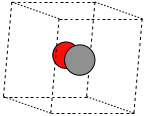
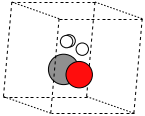
Made selection, crossover and mutation functions. Tested different methods.

Changed region(s): [[0.331, 0.2845, 0.6621, 0.7759]]

diff --git a/Geopt/Tests/EAs.py b/Geopt/Tests/EAs.py
@@ -8,7 +8,7 @@ def StartEA(elementsList):
     changeSizes = [10, 50, 150]  # Ranges of random atom movements.
 
     # Set up and initialise our template molecule to start with.
-    boxSize, coordinates, atomObjectList = Molecules.SetUpMolecule(elementsList)
+    boxSize, firstCoordinates, atomObjectList = Molecules.SetUpMolecule(elementsList)
     parentMolecule = Atoms(atomObjectList, cell=boxSize)
     parentMolecule.center()
     parentEnergy = GetEnergy(parentMolecule)
@@ -21,34 +21,53 @@ def StartEA(elementsList):
     bestMolecule = parentMolecule
 
     # Create 3 permutations from this initial parent.
-    population = [[parentMolecule, coordinates, parentEnergy]]
+    population = [[parentMolecule, firstCoordinates, parentEnergy]]
     for i in range(3):
-        permutedCoordinates = random.permutation(coordinates)
+        permutedCoordinates = random.permutation(firstCoordinates)
         childCoordinates, childAtomsObject = PrepareChild(elementsList, permutedCoordinates)
-        #MoveAllAtoms(childAtomsObject, changeSizes[2])
         childMolecule = GenerateChild(childAtomsObject, boxSize)
         childEnergy = GetEnergy(childMolecule)
-        print("Energy:", childEnergy)
-        if childEnergy < bestEnergy:
-            bestEnergy = childEnergy
-            bestMolecule = childMolecule
         population.append([childMolecule, childCoordinates, childEnergy])
 
-    population = RankByE(population)
+    # Sort the molecules into order of lowest energy and keep the two best ones.
+    population = RankByE(population, 2)
+    write("C:/Users/pipin/Documents/fyp/SophieCOMP3000/Geopt/Images/dad.png", population[1][0],
+          rotation='10x,30y,0z')
 
-    # write("C:/Users/pipin/Documents/fyp/SophieCOMP3000/Geopt/Images/parent.png", parentMolecule,
-    #      rotation='10x,30y,0z')
-    # write("C:/Users/pipin/Documents/fyp/SophieCOMP3000/Geopt/Images/child1.png", childrenList[0][0],
-    #      rotation='10x,30y,0z')
-    # write("C:/Users/pipin/Documents/fyp/SophieCOMP3000/Geopt/Images/child2.png", childrenList[1][0],
-    #       rotation='10x,30y,0z')
-    # write("C:/Users/pipin/Documents/fyp/SophieCOMP3000/Geopt/Images/child3.png", childrenList[2][0],
-    #       rotation='10x,30y,0z')
+    # Make 2 child molecules from these parents
+    for i in range(2):
+        # Do a random crossover and a small random mutation
+        childCoordinates = Crossover(population)
+        childCoordinates, childAtomsObject = PrepareChild(elementsList, childCoordinates)
+        MoveAllAtoms(childAtomsObject, changeSizes[0])
+        childMolecule = GenerateChild(childAtomsObject, boxSize)
+        childEnergy = GetEnergy(childMolecule)
+        population.append([childMolecule, childCoordinates, childEnergy])
+
+    # Get rid of the dad and introduce a random stranger
+    population.pop(1)
+    permutedCoordinates = random.permutation(firstCoordinates)
+    randCoordinates, randAtomsObject = PrepareChild(elementsList, permutedCoordinates)
+    MoveAllAtoms(randAtomsObject, changeSizes[2])
+    randMolecule = GenerateChild(randAtomsObject, boxSize)
+    randEnergy = GetEnergy(randMolecule)
+    population.append([randMolecule, randCoordinates, randEnergy])
 
 
-def PrepareChild(elementsList, parentCoordinates):
+    write("C:/Users/pipin/Documents/fyp/SophieCOMP3000/Geopt/Images/mum.png", population[0][0],
+         rotation='10x,30y,0z')
+    write("C:/Users/pipin/Documents/fyp/SophieCOMP3000/Geopt/Images/child1.png", population[1][0],
+         rotation='10x,30y,0z')
+    write("C:/Users/pipin/Documents/fyp/SophieCOMP3000/Geopt/Images/child2.png", population[2][0],
+          rotation='10x,30y,0z')
+    write("C:/Users/pipin/Documents/fyp/SophieCOMP3000/Geopt/Images/random.png", population[3][0],
+          rotation='10x,30y,0z')
+
+
+def PrepareChild(elementsList, startCoordinates):
     childAtomsObject = []
-    childCoordinates = parentCoordinates[:]
+    # Need to copy the parent's co-ordinates so we don't alter the parent molecule at the same time.
+    childCoordinates = startCoordinates[:]
     for i in range(len(elementsList)):
         childAtomsObject.append(Atom(elementsList[i], childCoordinates[i]))
     return childCoordinates, childAtomsObject
@@ -73,12 +92,10 @@ def MoveAllAtoms(itsAtoms, changeSize):
         eachAtom.position += ((random.randint(-changeSize, changeSize, 3)) / 100)
 
 
-def RankByE(population):
-    # I originally planned to use a quicksort but decided that since the list is small there was no need to make it complicated.
-    full = len(population)
+def RankByE(population, numToKeep):
+    # I originally planned to use a quicksort but decided that since the list was small there was no need to make it complicated.
     rankedPopulation = []
-    print("original population: ", population)
-    while len(rankedPopulation) < full:
+    while len(rankedPopulation) < numToKeep:
         bestEnergy = 1000
         for eachMember in population:
             if eachMember[2] < bestEnergy:
@@ -86,8 +103,24 @@ def RankByE(population):
                 bestMolecule = eachMember
         rankedPopulation.append(bestMolecule)
         population.remove(bestMolecule)
-    print("ranked population: ", rankedPopulation)
     return rankedPopulation
+
+
+def Crossover(population):
+    mumCoordinates = population[0][1]
+    howMany = len(mumCoordinates)
+    mumOrDad = random.randint(0, 2, howMany)
+    childCoordinates = []
+    for i in range(howMany):
+        whichParent = mumOrDad[i]
+        thisPoint = population[whichParent][1][i]
+        childCoordinates.append(thisPoint)
+    return childCoordinates
+
+
+
+
+
 
 
 testList = ['C', 'O', 'H', 'H', 'H']

diff --git a/Geopt/Model/EAs.py b/Geopt/Model/EAs.py
@@ -60,16 +60,17 @@ def MoveAllAtoms(itsAtoms, changeSize):
         eachAtom.position += ((random.randint(-changeSize, changeSize, 3)) / 100)
 
 
-def RankByE(population):
-    full = len(population)
+def RankByE(population, numToKeep):
+    # I originally planned to use a quicksort but decided that since the list is small there was no need to make it complicated.
     rankedPopulation = []
-    while len(rankedPopulation) < full:
-        worstEnergy = -1
+    print("original population: ", population)
+    while len(rankedPopulation) < numToKeep:
+        bestEnergy = 1000
         for eachMember in population:
-            if eachMember[2] > worstEnergy:
-                worstEnergy = eachMember[2]
-                worstMolecule = eachMember
-        rankedPopulation.append(worstMolecule)
-        population.remove(worstMolecule)
+            if eachMember[2] < bestEnergy:
+                bestEnergy = eachMember[2]
+                bestMolecule = eachMember
+        rankedPopulation.append(bestMolecule)
+        population.remove(bestMolecule)
     print("ranked population: ", rankedPopulation)
     return rankedPopulation
